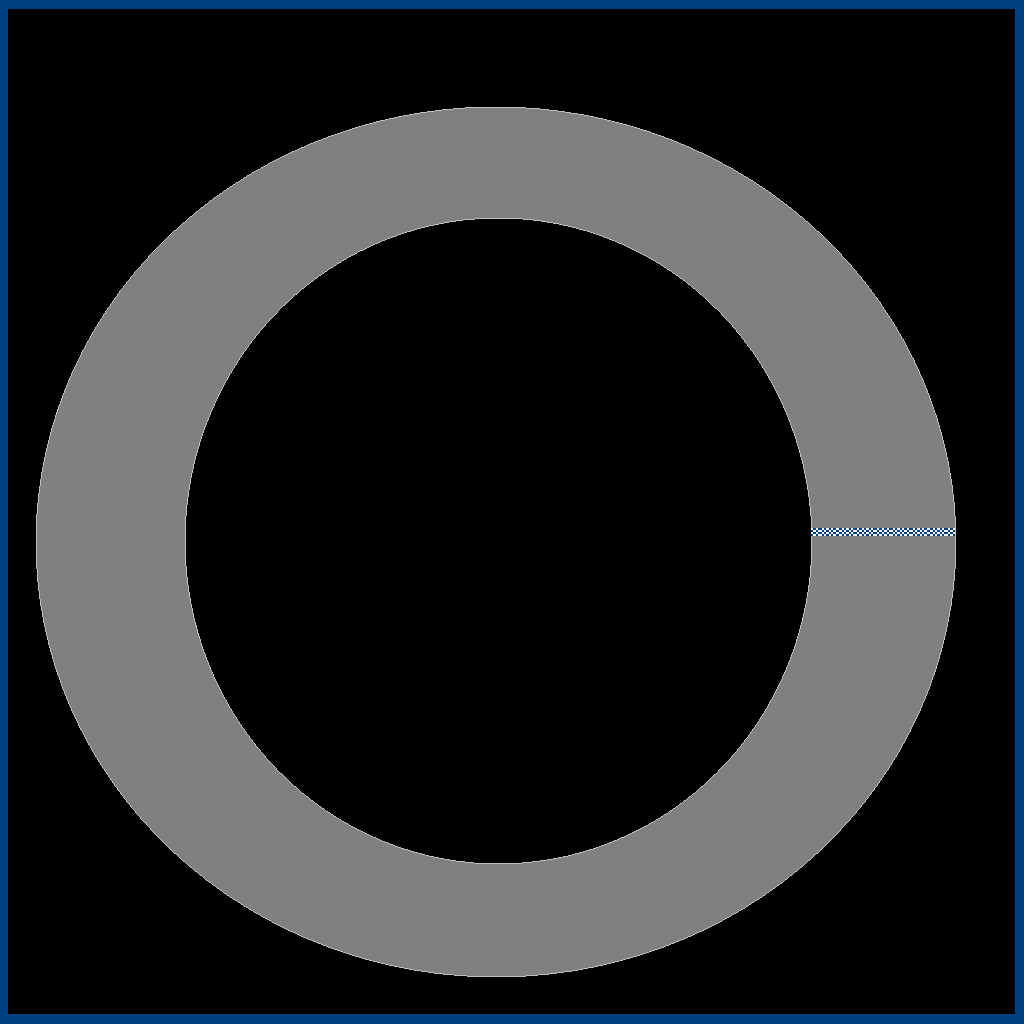
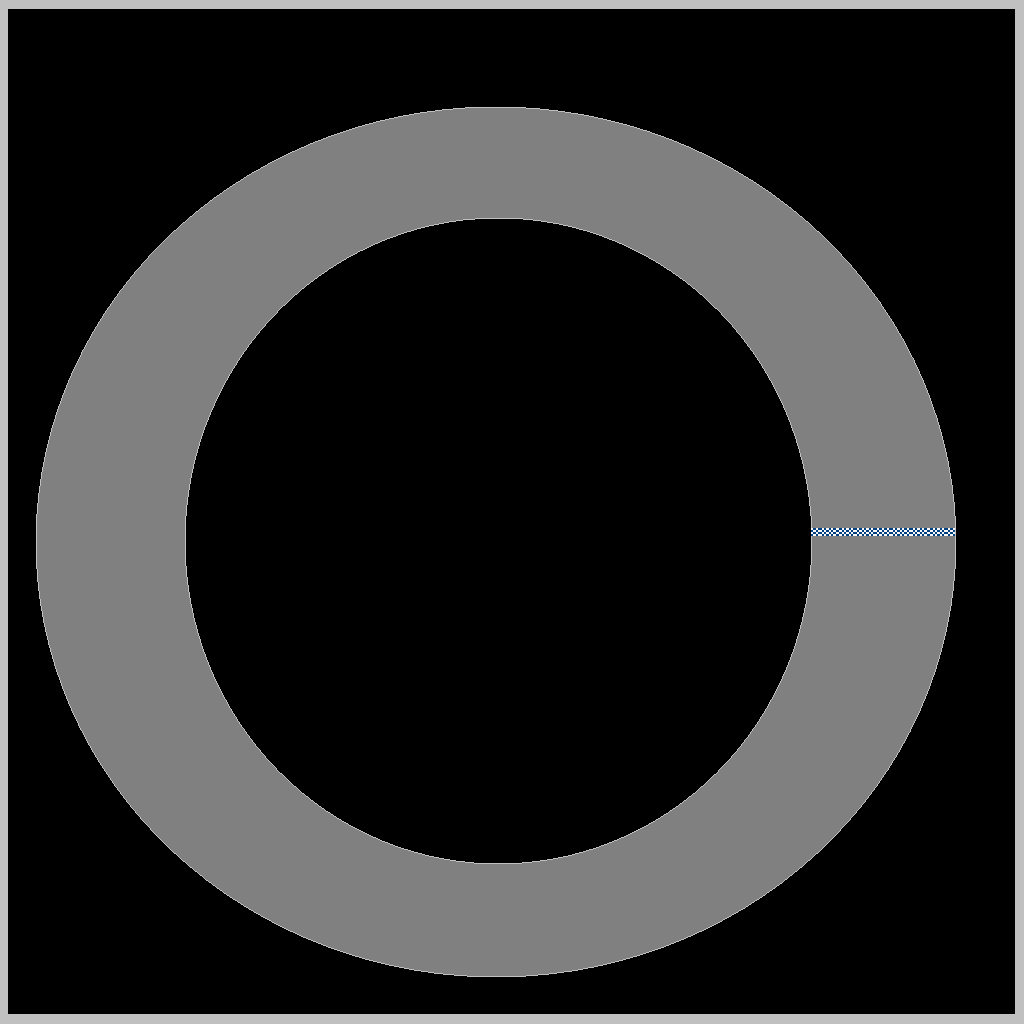
almsd

Changed region(s): [[0.0, 0.0, 1.0, 1.0]]

diff --git a/project.py b/project.py
@@ -11,7 +11,7 @@ def main():
 
     map1 = m.map('MarioKart.png', ['----','----','----'], ['N/A','N/A','N/A'], [22, 23, 29], [28, 30], 1024, 1024, 26.926, 17.938, 1.5 * np.pi,[6,16])
     map2 = m.map('Selfmade.png', ['----','----','----'], ['N/A','N/A','N/A'], [2], [3, 4], 1024, 1024, 26.926, 17.938, 1.5 * np.pi,[17,7])
-    map3 = m.map('circle.png', ['----','----','----'], ['N/A','N/A','N/A'], [3], [0, 4], 1024, 1024, 26.926, 17.938, 1.5 * np.pi,[5,10])
+    map3 = m.map('circle.png', ['----','----','----'], ['N/A','N/A','N/A'], [2], [3, 4], 1024, 1024, 26.926, 17.938, 1.5 * np.pi,[5,10])
     player_name, selected, exit = menu (map1, map2, map3)
     while selected == None:
         player_name, selected, exit = menu(map1, map2, map3)
@@ -62,7 +62,22 @@ def main():
         
         turning = [False, False]
         valid_lap = False
+        check = time.time()
+        while time.time() - check < 3:
+            toprint = 3 - (time.time() - check)
+            write(screen, 200, str(round(toprint) + 1), 500, 300, 'Black')
+            write(screen, 200, str(round(toprint)), 500, 300, 'White')
+            pg.display.update()
+            
+        lap_time = time.time()
+
         while running: # game loop begins
+            
+            
+            
+
+            # write()
+            
             for event in pg.event.get(): # detect exiting loop: escape works to close
                 if event.type == pg.QUIT or event.type == pg.KEYDOWN and event.key == pg.K_ESCAPE:
                     running = False
@@ -94,10 +109,6 @@ def main():
                 brake_sound.play()
             else:
                 brake_sound.stop()
-          
-
-
-                
             
             if keys[pg.K_LEFT]:
                 new_wheels = pg.transform.rotate(car_wheels, 5)
@@ -120,8 +131,9 @@ def main():
             
             # display all necessary screen info
             write(screen, 20 ,str(round((current_speed - backwards_speed) * 10000, 4)) + " MPH", 850, 700, 'White')
+            write(screen, 20, "Lap " + str(selected.laps_run + 1) + "/3", 40,80, 'White')
             write(screen, 20, "Lap time: " + str(round(time.time() - lap_time, 2)), 40, 40, 'White')
-            write(screen, 20, 'Top Times:', 850, 40, 'White')
+            write(screen, 20, 'Fastest Laps:', 850, 40, 'White')
             
             for i in range(0,3):
                 write(screen, 20, str(selected.times_list[i]) + " - " + str(selected.player_list[i]), 850, 80 + i * 40, 'White')
@@ -142,8 +154,7 @@ def main():
                 max_speed = static_max
             if current_speed < max_speed and moving_forward: # forward speed increase
                 current_speed += accel
-            
-            print(selected.color(posx, posy))
+            print(selected.color(posx,posy))
             if selected.color(posx, posy) not in selected.track_colors: #if the car is not on track it should be slower
                 if current_speed > offroad_speed:
                     current_speed -= accel * 4
@@ -199,7 +210,7 @@ def main():
             # did we touch the finish line?
             if posx % 30 < selected.valid_pos[0] and posy % 30 > selected.valid_pos[1]:
                 valid_lap = True
-            lap_time, selected.times_list, selected.player_list, valid_lap = (finish(selected, selected.color(posx, posy), selected.finish_colors, lap_time, player_name, valid_lap))
+            lap_time, selected.times_list, selected.player_list, selected.laps_run, valid_lap = (finish(selected, selected.color(posx, posy), selected.finish_colors, lap_time, player_name, valid_lap))
             
         player_name, selected, exit = menu(map1, map2, map3)
     
@@ -281,6 +292,7 @@ def finish(selected, color_int, color_list, lap_time, player_name, valid_lap):
         
                 if  (x == '----' or time.time() - lap_time <= x) and valid_lap:
                     selected.times_list.insert(i, round(time.time() - lap_time, 2))
+                    selected.laps_run += 1  
                     if player_name == '':
                         selected.player_list.insert(i, 'Anonymous')
                     else:
@@ -289,11 +301,13 @@ def finish(selected, color_int, color_list, lap_time, player_name, valid_lap):
                 elif selected.times_list.index(x) == len(selected.times_list) - 1:
                     selected.times_list.append(round(time.time() - lap_time, 2))
                     selected.player_list.append(player_name)
+                    selected.laps_run += 1  
                 else:
                     i += 1
-
-        return time.time(), selected.times_list, selected.player_list, False # returns current time before the epoch
-    return lap_time, selected.times_list, selected.player_list, valid_lap # returns starting time in time before the epoch
+              
+            
+        return time.time(), selected.times_list, selected.player_list, selected.laps_run, False # returns current time before the epoch
+    return lap_time, selected.times_list, selected.player_list, selected.laps_run, valid_lap # returns starting time in time before the epoch
 
 def write(screen, size, text, x, y, color):
 
@@ -317,6 +331,9 @@ def menu(map1, map2, map3):
     load_mario = lm.load_map(screen, 'MarioKart.png', 50, 300)
     load_selfmade = lm.load_map(screen, 'Selfmade.png', 450, 300)
     load_circle = lm.load_map(screen, 'circle.png', 850, 300)
+    map1.laps_run = 0
+    map2.laps_run = 0
+    map3.laps_run = 0
 
     user_text = ""
     active = False
@@ -380,7 +397,7 @@ def menu(map1, map2, map3):
         
         text_surface = font.render(user_text, True, (255, 255, 255))
 
-        input_rect.w = max(440, text_surface.get_width() + 10) 
+        input_rect.w = max(440, text_surface.get_width() + 10)
         screen.blit(text_surface, (input_rect.x + 5, input_rect.y + 7))
 
         

diff --git a/map.py b/map.py
@@ -16,6 +16,7 @@ class map:
         self.start_y = start_y
         self.start_rot = start_rot
         self.valid_pos = valid_pos
+        self.laps_run = 0
 
     def color(self, posx, posy):
         im = Image.open(self.image) # Can be many different formats. imported from PIL
